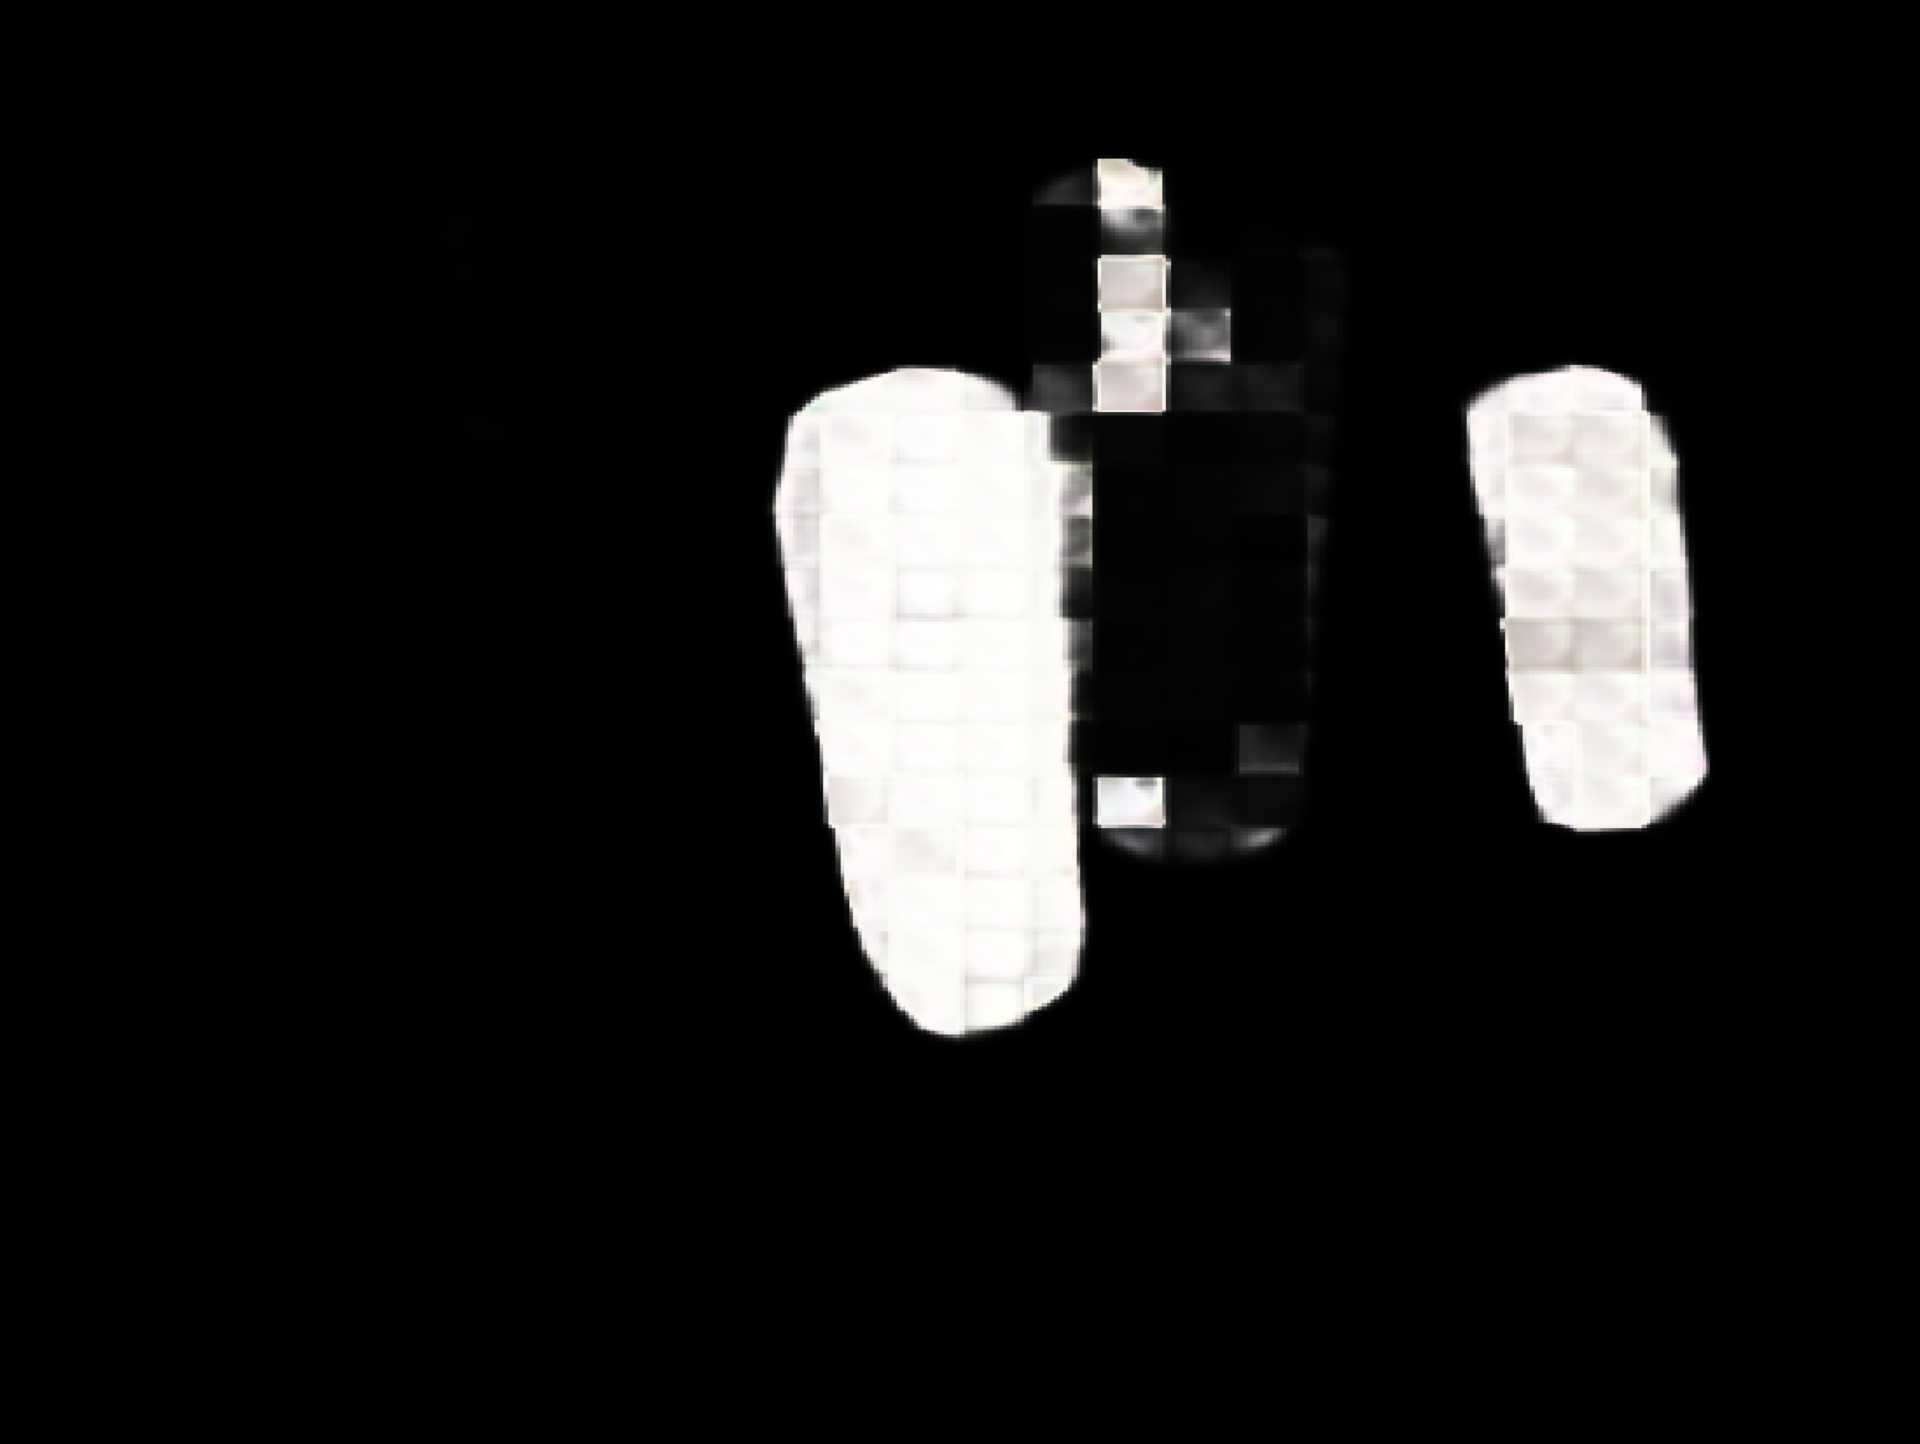
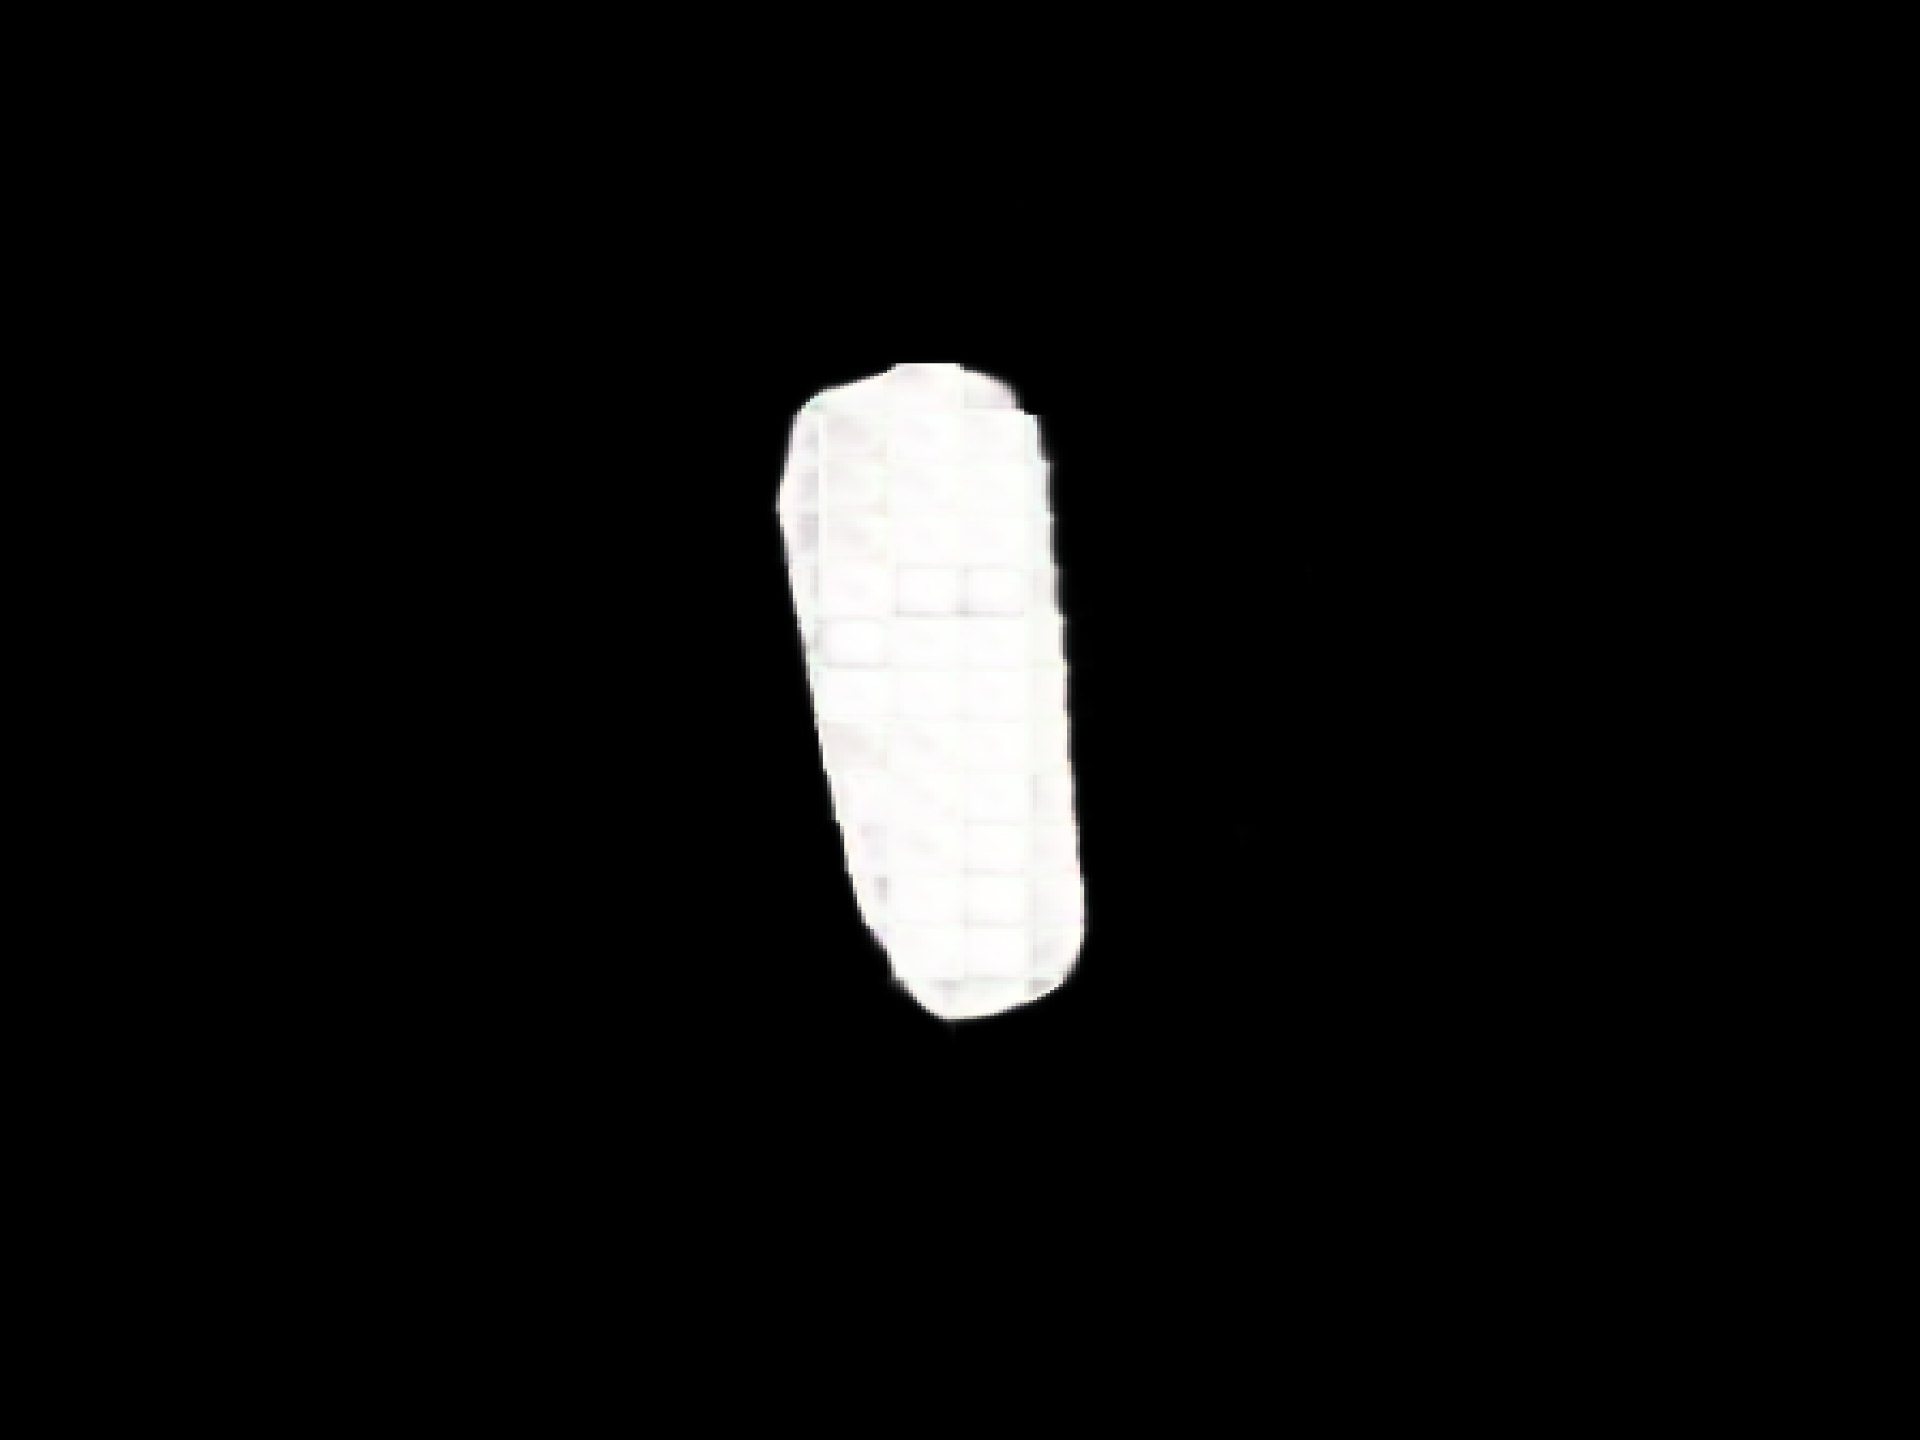
change colour overall

diff --git a/sketch.js b/sketch.js
@@ -5,13 +5,13 @@ let renderCounter=0;
 // change these three lines as appropiate
 let sourceFile = "input_2.jpg";
 let maskFile   = "mask_2.png";
-let outputFile = "output_1.png";
+let outputFile = "output_3.png";
 
 function preload() { 
   sourceImg = loadImage(sourceFile); 
   maskImg = loadImage(maskFile); 
 
-    textImg = loadImage("swirl.png");
+    textImg = loadImage("dots.png");
 }
 
 function setup () {
@@ -25,54 +25,69 @@ function setup () {
   maskImg.loadPixels();
 }
 
-let X_STOP = 1800;
-let Y_STOP = 1300;
-// let X_STOP = 1920; 
-// let Y_STOP = 1080;
+let X_STOP = 1800; //1920
+let Y_STOP = 1300; //1080
 let OFFSET = 15;
 
-//let renderCounter=0;
 
 function draw () {
   
- 
   let num_lines_to_draw = 40;
   // get one scanline
   for(let j=renderCounter; j<renderCounter+num_lines_to_draw && j<1080; j++) {
-    for(let i=0; i<X_STOP; i++) {
+    for(let i=0; i<1920; i++) {
       colorMode(RGB);
       let pix = sourceImg.get(i, j);
       // create a color from the values (always RGB)
       let col = color(pix);
       let mask = maskImg.get(i, j);
-      let tex = textImg.get(i, j);
 
-      if(mask[0] < 128) {
-        set(i, j, pix);
+      colorMode(HSB, 360, 100, 100); // max values for h s b 
+      // sets hue sat and brightness
+      let h = hue(col);
+      let s = saturation(col);
+      let b = brightness(col);
+
+      if(mask[0] > 128) { //sets can / mask col
+        // draw the full pixels
+        // let new_sat = map(s, 0, 100, 50, 100);
+        //let new_brt = map(b, 0, 100, 50, 100);
+       //  let new_hue = map(h, 0, 360, 180, 540);
+       // let new_col = color(0,new_hue, new_sat, new_brt);
+       let new_col = color(h-100, s+50, b+20); //makes it normal color 
+      set(i, j, new_col);
       }
-      else {
-        let new_col = [0, 0, 0, 255];
-        for(let k=0; k<3; k++) {
-          new_col[k] = map(40, 0, 100, pix[k], tex[k]);
-        }
-        // let new_col = color(h, s,  newBrt);
+      else { //sets background col
+        // let new_brt = map(b, 0, 100, 20, 40);
+        let new_bright = map(b, 0, 100, 100, 0);
+       let new_col = color(h+80, 80, new_bright-20);
+        //let new_col = color(h, s, b);
         set(i, j, new_col);
+
       }
     }
-  
-  renderCounter = renderCounter + num_lines_to_draw;
-  updatePixels();
+  }
+
+renderCounter = renderCounter + num_lines_to_draw;
+updatePixels();
+// print(renderCounter);
+if(renderCounter > 1440) {
+console.log("Done!")
+noLoop();
+
+renderCounter = renderCounter + num_lines_to_draw;
+updatePixels();
 
   // print(renderCounter);
   if(renderCounter > Y_STOP) {
     console.log("Done!")
     noLoop();
 
-    
+
+
+  // creates the wave effect
 
   angleMode(DEGREES);
-  let num_lines_to_draw = 40;
-  // get one scanline
   for(let j=renderCounter; j<renderCounter+num_lines_to_draw && j<Y_STOP; j++) {
     for(let i=0; i<X_STOP; i++) {
       colorMode(RGB);
@@ -86,17 +101,9 @@ function draw () {
         let slip = map(wave, -1, 1, -OFFSET, OFFSET);
         pix = sourceImg.get(i+slip, j);
 
-     
-      
-  // for(let c=0; c<3; c++) {
-       //  pix[c] = brt;
-      // }
       }
-
       set(i, j, pix);
     }
-
-  
         }
   renderCounter = renderCounter + num_lines_to_draw;
   updatePixels();
@@ -108,7 +115,6 @@ function draw () {
 
  
   }
-}
 
 /*
 function draw () {
@@ -145,3 +151,4 @@ function keyTyped() {
   
       }
     }
+}
